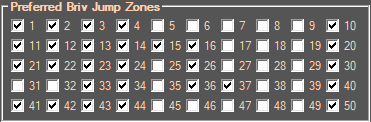
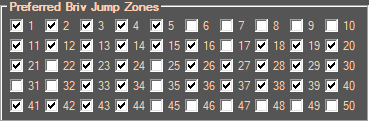
Updated 9J/4J preferred Briv jump zones.

Changed region(s): [[0.0, 0.0, 0.4472, 0.9836], [0.5962, 0.0246, 1.0, 1.0], [0.1192, 0.1475, 0.4472, 0.2459]]

diff --git a/IC_BrivGemFarm_BrivFeatSwap_Extra/README.md b/IC_BrivGemFarm_BrivFeatSwap_Extra/README.md
@@ -146,6 +146,8 @@ to the level that matches the next 🔁 zone you will encounter (or 5 zones befo
 | **+** 6/6 QTs vs 3/5 QTs for 9J TT          |
 | ![](Images/9-4j_tt_setup.png)               |
 
+>🔁 2, 12, 22, 27, 37, 47 is still 100%QT without collect zones if landing on this path with Thellora.       
+
 ## Stacks:
 
 For all the routes except for 5J/4J, more Briv Steelbones/Sprint stacks are needed to reach the reset area
